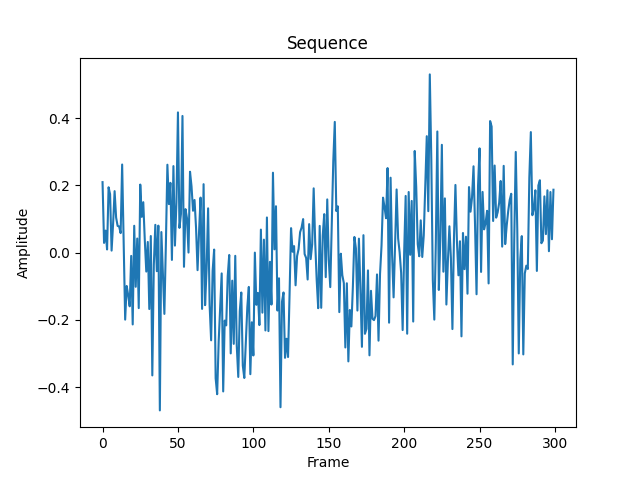
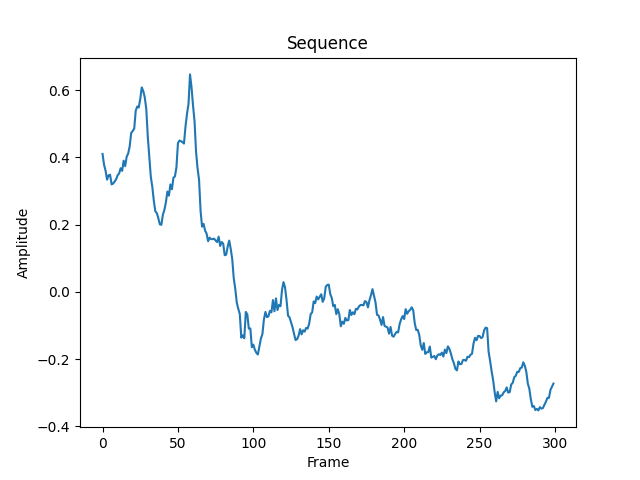
fixed extractor model.... again

diff --git a/Models/extractor_model.py b/Models/extractor_model.py
@@ -48,7 +48,8 @@ class Extractor(nn.Module):
         c_st = (1,1) # convolution stride
         pad = (0,0) # padding
         in_ch = 3 # input channels
-        ch = 64 # channels inside the network
+        ch1 = 64 # channels inside the network
+        ch2 = 128
         out_ch = 1 # output channels
 
 
@@ -56,16 +57,18 @@ class Extractor(nn.Module):
         m_st = (1,1) # max pooling stride
 
         alpha_elu = 1.0 # ELU alpha
+        self.ada_avg_pool2d = nn.AdaptiveAvgPool2d(output_size=(192, 128))
+
         # 192 x 128
-        self.conv1 = create_layer(["BN",in_ch,"DP2",0.05,"CONV", in_ch, ch, c_k_size, c_st, pad,"MP" ,m_k_size, (2,2), "BN", ch,"ELU", alpha_elu])
+        self.conv1 = create_layer(["BN",in_ch,"DP2",0.05,"CONV", in_ch, ch1, c_k_size, c_st, pad,"MP" ,m_k_size, (2,2), "BN", ch1,"ELU", alpha_elu])
         # 89 x 60
-        self.conv2 = create_layer(["DP",0.05,"CONV",ch, ch, c_k_size, c_st, pad,"MP",m_k_size, m_st, "BN", ch,"ELU", alpha_elu])
+        self.conv2 = create_layer(["DP",0.05,"CONV",ch1, ch1, c_k_size, c_st, pad,"MP",m_k_size, m_st, "BN", ch1,"ELU", alpha_elu])
         # 38 x 26
-        self.conv3 = create_layer(["DP",0.05,"CONV",ch, ch, c_k_size, c_st, pad,"MP",m_k_size, m_st, "BN", ch,"ELU", alpha_elu])
+        self.conv3 = create_layer(["DP",0.05,"CONV",ch1, ch2, c_k_size, c_st, pad,"MP",m_k_size, m_st, "BN", ch2,"ELU", alpha_elu])
         # 13 x 9
-        self.conv4 = create_layer(["DP2",0.2,"CONV",ch, ch, c_k_last_size, c_st, pad,"MP",m_k_size, m_st, "BN", ch,"ELU", alpha_elu])
+        self.conv4 = create_layer(["DP2",0.2,"CONV",ch2, ch2, c_k_last_size, c_st, pad,"MP",m_k_size, m_st, "BN", ch2,"ELU", alpha_elu])
         # 1 x 1
-        self.conv5 = create_layer(["DP",0.5,"CONV",ch, out_ch, 1, 1, 0])
+        self.conv5 = create_layer(["DP",0.5,"CONV",ch2, out_ch, 1, 1, 0])
 
 
         self.init_weights()
@@ -74,14 +77,15 @@ class Extractor(nn.Module):
     def forward(self, x):
         # normalization to [-1, 1]
         # x = x / 255 * 2 - 1
+        x = self.ada_avg_pool2d(x)
         x = self.conv1(x)
         x = self.conv2(x)
         x = self.conv3(x)
         x = self.conv4(x)
         x = self.conv5(x)
         # normalize x from [min(x), max(x)] to [0,1]
-        x = x - x.min()
-        x = x / (x.max() - x.min())
+        # x = x - x.min()
+        # x = x / (x.max() - x.min())
         return x
 
     def init_weights(self):

diff --git a/Models/estimator_model.py b/Models/estimator_model.py
@@ -39,16 +39,16 @@ class Estimator(nn.Module):
     def __init__(self):
         super(Estimator, self).__init__()
         # convolution parameters
-        conv_kernel = 16
-        max_pool_kernel = 5
+        conv_kernel = 8
+        max_pool_kernel = 10
 
 
         alpha_elu = 1.0 # ELU alpha
-        channels_1 = 128
-        channels_2 = 128
-        channels_3 = 128
-        channels_4 = 128
-        channels_5 = 128
+        channels_1 = 8
+        channels_2 = 8
+        channels_3 = 8
+        channels_4 = 8
+        channels_5 = 8
 
 
 
@@ -74,8 +74,10 @@ class Estimator(nn.Module):
         self.conv10 = create_layer(["DP",0.3,"CONV", channels_3, channels_4 , conv_kernel, 1, 0, 1, "BN", channels_4, "ELU", alpha_elu])
         # 33
         self.conv11 = create_layer(["DP",0.3,"CONV", channels_4, channels_5 , conv_kernel, 1, 0, 1, "BN", channels_5, "ELU", alpha_elu])
+
+        self.conv12 = create_layer(["DP",0.2,"CONV", channels_5, channels_5 , conv_kernel, 1, 0, 1, "MP",max_pool_kernel, 1 ,"BN", channels_5, "ELU", alpha_elu])
         # 24
-        self.conv_last = create_layer(["DP",0.5,"CONV", channels_5, 1, conv_kernel, 1, 0, 1,"MP",max_pool_kernel, 1, "BN", 1, "ELU", alpha_elu])
+        self.conv_last = create_layer(["DP",0.5,"CONV", channels_5, 1, 1, 1, 0, 1])
         # 6
         self.ada_avg_pool = nn.AdaptiveAvgPool1d(output_size=1)
         
@@ -84,7 +86,7 @@ class Estimator(nn.Module):
 
     def forward(self, x):
         # normalization to [-1, 1]
-        x = (x - x.mean()) / x.std()
+        x = (x - x.mean())
 
         x = self.conv1(x)
         x = self.conv2(x)
@@ -97,6 +99,7 @@ class Estimator(nn.Module):
         x = self.conv9(x)
         x = self.conv10(x)
         x = self.conv11(x)
+        x = self.conv12(x)
         x = self.conv_last(x)
         x = self.ada_avg_pool(x)
 

diff --git a/estimator_eval.py b/estimator_eval.py
@@ -1,6 +1,7 @@
 import torch
 from Models.estimator_model import Estimator
 from Models.extractor_model import Extractor
+# from Models.extractor_latent import Extractor
 from Datasets_handlers.Extractor.dataset_loader import DatasetLoader
 from Datasets_handlers.Estimator.dataset_loader import EstimatorDatasetLoader
 import numpy as np
@@ -91,7 +92,7 @@ class EstimatorEval:
                 predicted.append(prediction)
                 progress = data_loader.get_progress()
                 print(f"Progress: {progress[0]}/{progress[1]}", end="\r")
-                # get_max_freq_padded(extractor_output, 30, hr_data, prediction, pad_factor=10)
+                get_max_freq_padded(extractor_output, 30, hr_data, prediction, pad_factor=10)
 
         return ground_truth, predicted
     
@@ -200,7 +201,7 @@ def plot_sequence(sequence,freqs,fft, real_hr,predicted, save_path):
 if __name__ == "__main__":
     import yaml
     import csv
-    config_data = yaml.safe_load(open("config_files/pure_local/config_eval_exp10_last.yaml"))
+    config_data = yaml.safe_load(open("config_files/pure_local/config_eval_test.yaml"))
     data = config_data["data"]
     weights = config_data["weights"]
     extractor_weights_path = weights["extractor_weights"]

diff --git a/train_extractor.py b/train_extractor.py
@@ -8,9 +8,9 @@ from Datasets_handlers.Extractor.dataset_loader import DatasetLoader
 from extractor_trainer import ExtractorTrainer
 
 # CONFIG_PATH = os.path.join("config_files", "synthetic", "config_extractor_synthetic.yaml")
-# CONFIG_PATH = os.path.join("config_files", "pure", "config_extractor_pure_halmos_exp15.yaml")
+CONFIG_PATH = os.path.join("config_files", "pure", "config_extractor_pure_halmos_exp21.yaml")
 # CONFIG_PATH = os.path.join("config_files", "pure_local", "config_extractor_pure_exp1.yaml")
-CONFIG_PATH = os.path.join("config_files", "latent_model_test", "config_extractor_pure_halmos_latent_exp5.yaml")
+# CONFIG_PATH = os.path.join("config_files", "latent_model_test", "config_extractor_pure_halmos_latent_exp5.yaml")
 
 
 if __name__ == "__main__":

diff --git a/estimator_trainer.py b/estimator_trainer.py
@@ -28,7 +28,7 @@ class EstimatorTrainer:
         self.model = Estimator()
         self.model.to(device)
         # init optimizer
-        self.optimizer = torch.optim.Adam(self.model.parameters(),amsgrad=False, lr=self.lr, weight_decay=0.0001)
+        self.optimizer = torch.optim.Adam(self.model.parameters(),amsgrad=False, lr=self.lr, weight_decay=0.00001)
         # self.optimizer = torch.optim.SGD(self.model.parameters(), lr=self.lr, momentum=0.9, weight_decay=0)
         # init loss function
         self.criterion = EstimatorLoss().to(device)

diff --git a/train_estimator.py b/train_estimator.py
@@ -10,7 +10,7 @@ from Datasets_handlers.Estimator.dataset_loader import EstimatorDatasetLoader
 from estimator_trainer import EstimatorTrainer
 
 # CONFIG_PATH = os.path.join("config_files", "synthetic", "config_estimator_synthetic.yaml")
-CONFIG_PATH = os.path.join("config_files", "pure_local", "config_estimator_exp15.yaml")
+CONFIG_PATH = os.path.join("config_files", "pure_local", "config_estimator_test.yaml")
 
 
 

diff --git a/extractor_trainer.py b/extractor_trainer.py
@@ -1,6 +1,6 @@
 import torch
-# from Models.extractor_model import Extractor
-from Models.extractor_latent import Extractor
+from Models.extractor_model import Extractor
+# from Models.extractor_latent import Extractor
 # from my_extractor import Extractor
 from Loss.extractor_loss import ExtractorLoss
 from Datasets_handlers.Extractor.dataset_loader import DatasetLoader

diff --git a/Datasets_handlers/Estimator/dataset_creator.py b/Datasets_handlers/Estimator/dataset_creator.py
@@ -1,5 +1,5 @@
-from Models.extractor_model import Extractor
-# from Models.extractor_latent import Extractor
+# from Models.extractor_model import Extractor
+from Models.extractor_latent import Extractor
 from Datasets_handlers.Extractor.dataset_loader import DatasetLoader
 import torch
 import numpy as np
